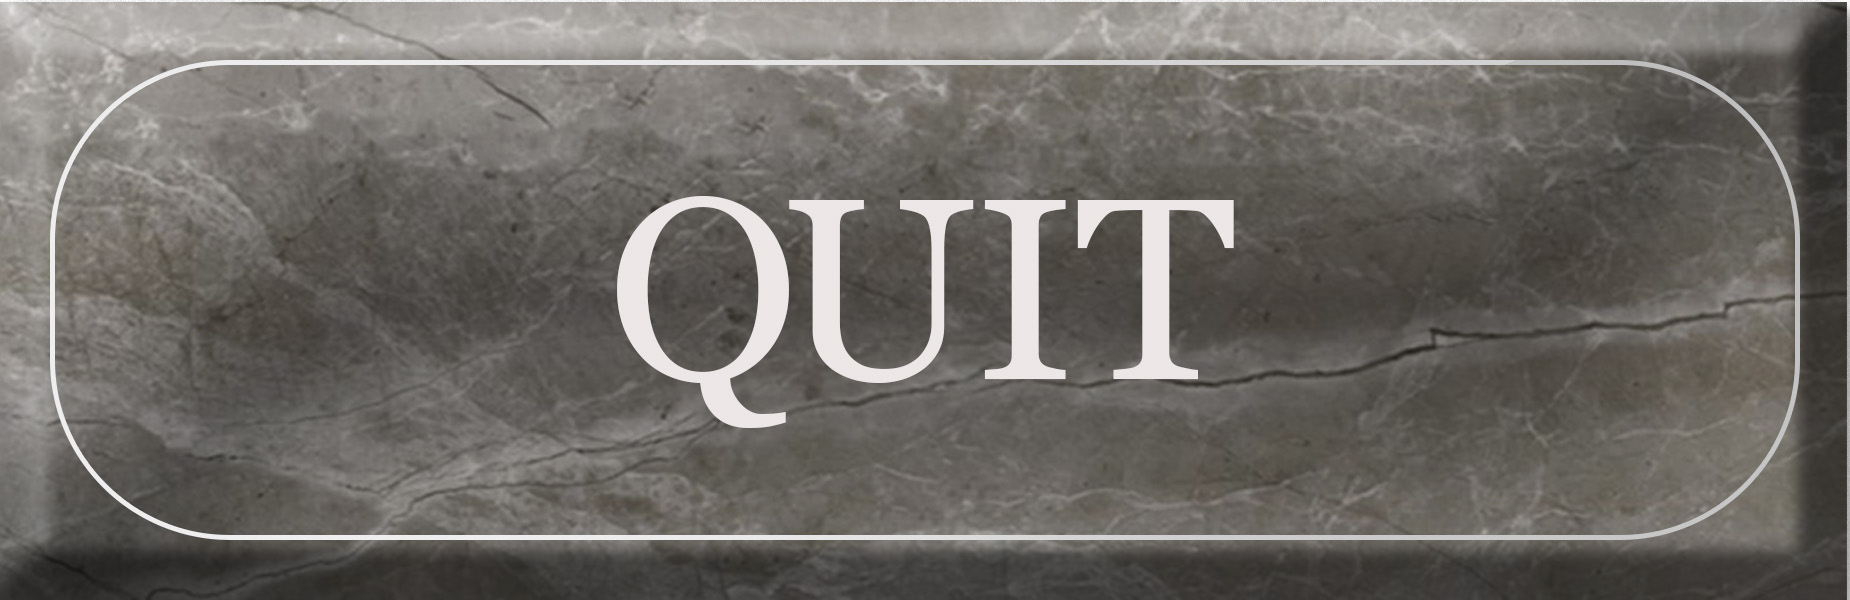
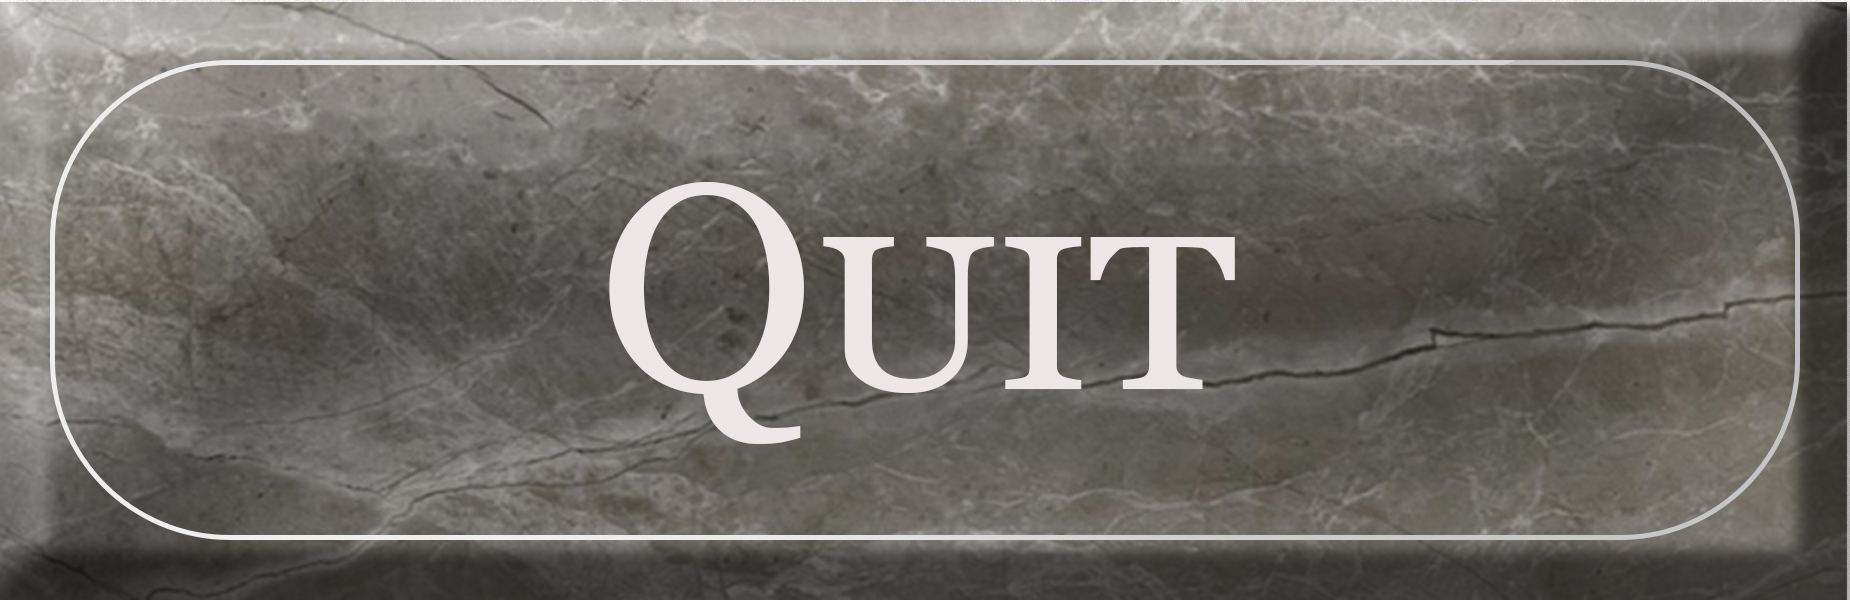
Improved play and quit btns.

Changed region(s): [[0.3081, 0.3, 0.6778, 0.66], [0.3697, 0.69, 0.4314, 0.75]]

diff --git a/projects/bible-query/scripts/app.js b/projects/bible-query/scripts/app.js
@@ -144,7 +144,7 @@ const finalScoreRender = () => {
 
   let sp2d =
     scorePercent == 100
-      ? "You got it all right!"
+      ? "You got all the questions right!"
       : scorePercent >= 90
       ? "You almost perfected this level!"
       : scorePercent >= 51